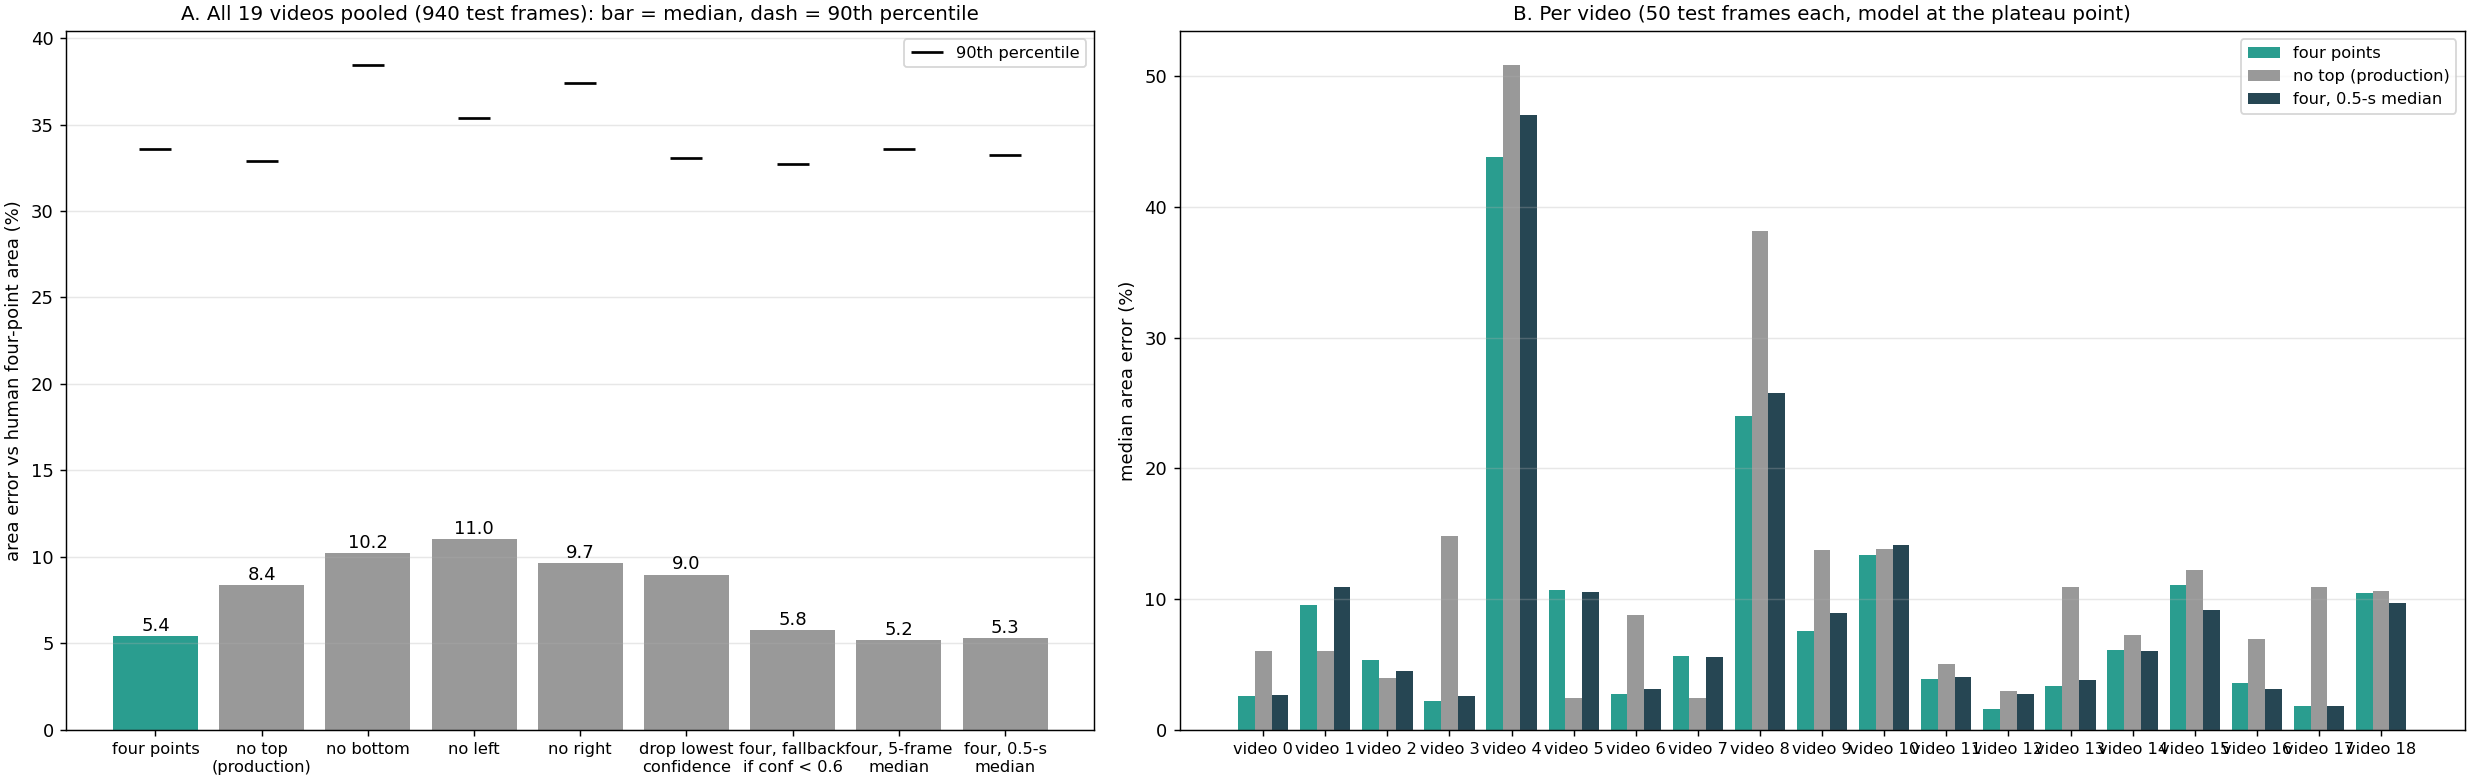
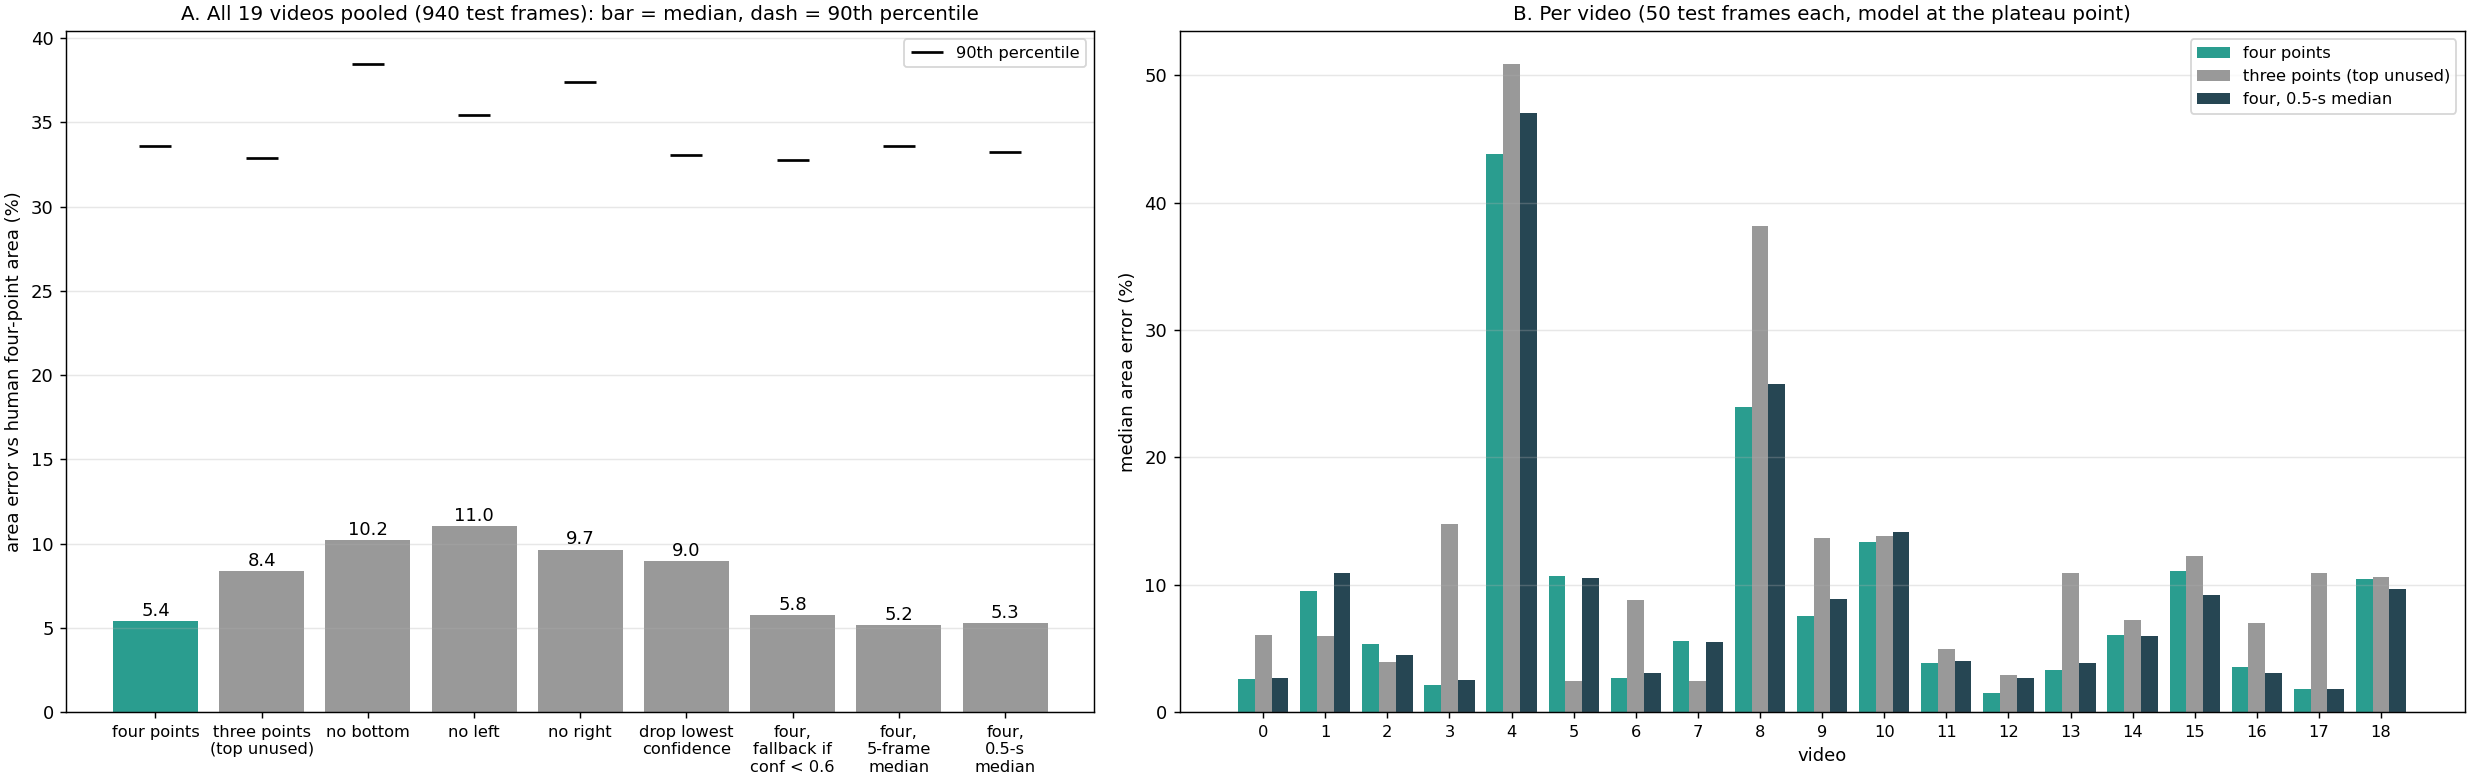
Figure 9-1: per-video x ticks as numbers with axis title 'video' (labels overlapped); 'no top (production)' renamed 'three points (top unused)'; long tick labels on three lines

diff --git a/report/index.html b/report/index.html
@@ -78,7 +78,7 @@ math[display="block"]{margin:10px 0 6px;text-align:left;overflow-x:auto;max-widt
 
 <header>
   <h1><span lang="zh">小鼠眼睛关键点追踪：做了什么，结果是什么</span><span lang="en">Mouse eye keypoint tracking: what was done and what came out</span></h1>
-  <p class="muted small">Zhiheng Li (University of Minnesota), Kaiwen Sheng (Stanford) · <span lang="zh">页面生成时间</span><span lang="en">page built</span> 2026-10-24 14:57 · <a href="https://github.com/ZhihengLi0/mouse-behavior-tracking">GitHub: ZhihengLi0/mouse-behavior-tracking</a></p>
+  <p class="muted small">Zhiheng Li (University of Minnesota), Kaiwen Sheng (Stanford) · <span lang="zh">页面生成时间</span><span lang="en">page built</span> 2026-10-24 15:00 · <a href="https://github.com/ZhihengLi0/mouse-behavior-tracking">GitHub: ZhihengLi0/mouse-behavior-tracking</a></p>
 
   <div class="text" lang="zh">
     <p><b>任务：</b>用 DeepLabCut 在小鼠眼睛视频的每一帧上找 8 个点：瞳孔上、下、左、右，上眼睑、下眼睑，鼻侧眼角、颞侧眼角。由这 8 个点得到瞳孔大小、眼睛睁开程度和眨眼，之后与脑记录对齐。</p>

diff --git a/report/index_en.html b/report/index_en.html
@@ -75,7 +75,7 @@ math[display="block"]{margin:10px 0 6px;text-align:left;overflow-x:auto;max-widt
 
 <header>
   <h1><span lang="en">Mouse eye keypoint tracking: what was done and what came out</span></h1>
-  <p class="muted small">Zhiheng Li (University of Minnesota), Kaiwen Sheng (Stanford) · <span lang="en">page built</span> 2026-10-24 14:57 · <a href="https://github.com/ZhihengLi0/mouse-behavior-tracking">GitHub: ZhihengLi0/mouse-behavior-tracking</a></p>
+  <p class="muted small">Zhiheng Li (University of Minnesota), Kaiwen Sheng (Stanford) · <span lang="en">page built</span> 2026-10-24 15:00 · <a href="https://github.com/ZhihengLi0/mouse-behavior-tracking">GitHub: ZhihengLi0/mouse-behavior-tracking</a></p>
 
   
   <div class="text" lang="en">

diff --git a/v2_new_pupil_top_video_scaling/scripts/blink_and_area.py b/v2_new_pupil_top_video_scaling/scripts/blink_and_area.py
@@ -299,8 +299,8 @@ C = pd.DataFrame(rowsC)
 C.to_csv(OUT / "blink_area_timeseries_all_videos.csv", index=False)
 
 # ---------------- figures ----------------
-NAMES = {"four": "four points", "no_top": "no top\n(production)", "no_bottom": "no bottom", "no_left": "no left", "no_right": "no right",
-         "drop_lowconf": "drop lowest\nconfidence", "four_fallback": "four, fallback\nif conf < 0.6", "four_med5": "four, 5-frame\nmedian", "four_med31": "four, 0.5-s\nmedian"}
+NAMES = {"four": "four points", "no_top": "three points\n(top unused)", "no_bottom": "no bottom", "no_left": "no left", "no_right": "no right",
+         "drop_lowconf": "drop lowest\nconfidence", "four_fallback": "four,\nfallback if\nconf < 0.6", "four_med5": "four,\n5-frame\nmedian", "four_med31": "four,\n0.5-s\nmedian"}
 fig, axes = plt.subplots(1, 2, figsize=(19, 6), constrained_layout=True, gridspec_kw={"width_ratios": [1, 1.25]})
 pool = A[A.video == "all"].set_index("rule").loc[RULES]
 ax = axes[0]
@@ -316,7 +316,7 @@ per = A[A.video != "all"]
 x = np.arange(PL.video.nunique())
 for rule, col, off in [("four", "#2A9D8F", -0.27), ("no_top", "0.6", 0), ("four_med31", "#264653", 0.27)]:
     ax.bar(x + off, per[per.rule == rule].median_abs_err_pct, 0.27, color=col, label=NAMES[rule].replace("\n", " "))
-ax.set_xticks(x); ax.set_xticklabels([f"video {v}" for v in PL.video], fontsize=9); ax.set_ylabel("median area error (%)")
+ax.set_xticks(x); ax.set_xticklabels([str(v) for v in PL.video], fontsize=9); ax.set_xlabel("video"); ax.set_ylabel("median area error (%)")
 ax.legend(fontsize=9); ax.grid(axis="y", alpha=0.3); ax.set_title("B. Per video (50 test frames each, model at the plateau point)", fontsize=11)
 fig.savefig(OUT / "blink_area_area_methods_all_videos.png", dpi=130)
 plt.close(fig)
